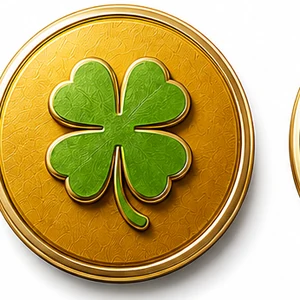
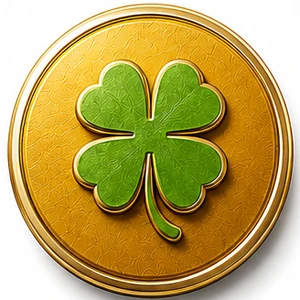
fix: eliminar el hueco blanco en el borde de las monedas del hub
El recorte de las 7 monedas dejaba un resto de fondo blanco visible
en el borde circular de cada badge (más notorio en amarillo, rojo y
marrón) — las sombras suaves de la foto original hacían muy poco
fiable detectar el centro exacto de cada círculo por píxeles para
recortarlo perfecto.

En vez de seguir afinando el recorte, se añade un anillo dorado real
en CSS (box-shadow inset, mismo tono que el borde de las monedas)
por encima de la imagen de fondo, con un zoom algo mayor (128%): así
se tapa cualquier resto de blanco sin importar la precisión del
recorte, y de paso refuerza el "borde dorado" visualmente.

diff --git a/inicio.html b/inicio.html
@@ -141,8 +141,12 @@ body{
 .sat-badge{
   position:relative;overflow:hidden;
   width:clamp(52px,12vmin,72px);height:clamp(52px,12vmin,72px);border-radius:50%;
-  background:var(--coin) center/112% 112%;
-  box-shadow:0 0 24px var(--c-glow), 0 10px 22px rgba(0,0,0,.4);
+  background:var(--coin) center/128% 128%;
+  /* anillo dorado por encima de la foto: tapa cualquier resto del fondo
+     blanco original si el recorte no queda perfecto al 100% */
+  box-shadow:
+    inset 0 0 0 3px #E9C25C, inset 0 0 0 4.5px #8a6417,
+    0 0 24px var(--c-glow), 0 10px 22px rgba(0,0,0,.4);
   transition:transform .3s cubic-bezier(.34,1.56,.64,1), box-shadow .3s;
   animation:float 5s ease-in-out infinite;
   animation-delay:inherit;
@@ -155,10 +159,12 @@ body{
 
 .satellite:hover .sat-badge, .satellite:focus-visible .sat-badge{
   transform:translateY(-6px) scale(1.09);
-  box-shadow:0 0 34px var(--c-glow), 0 14px 26px rgba(0,0,0,.45);
+  box-shadow:
+    inset 0 0 0 3px #f5d97a, inset 0 0 0 4.5px #8a6417,
+    0 0 34px var(--c-glow), 0 14px 26px rgba(0,0,0,.45);
 }
 .satellite:focus-visible{outline:none;}
-.satellite:focus-visible .sat-badge{box-shadow:0 0 0 3px #fff, 0 0 34px var(--c-glow);}
+.satellite:focus-visible .sat-badge{box-shadow:inset 0 0 0 3px #f5d97a, 0 0 0 3px #fff, 0 0 34px var(--c-glow);}
 
 .sat-label{
   font-size:clamp(11.5px,2.4vmin,13.5px);font-weight:700;margin-top:9px;text-align:center;
